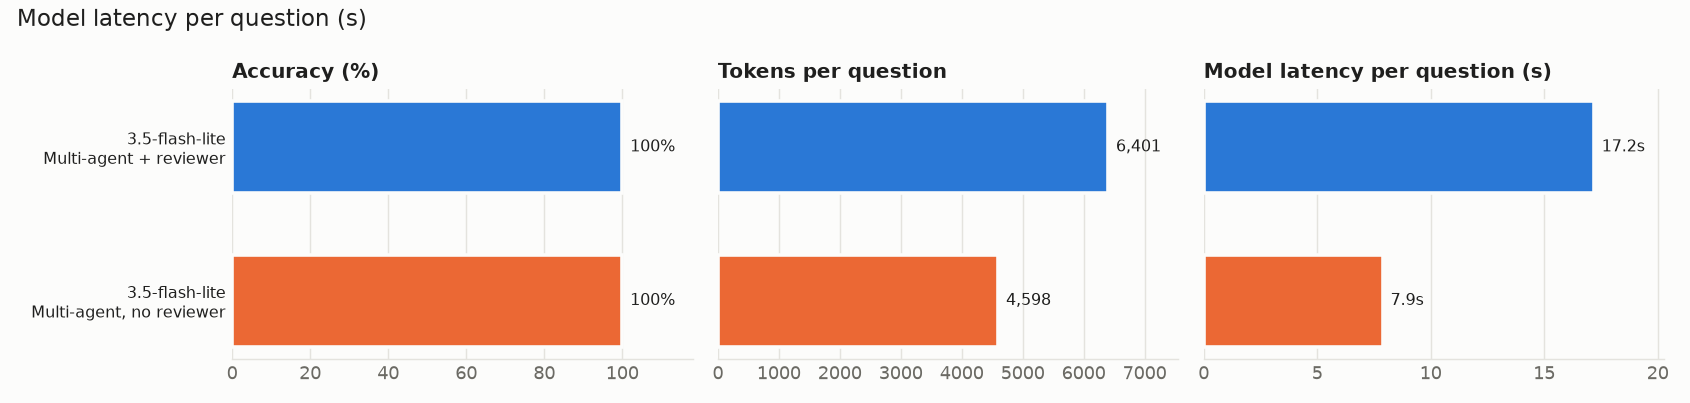
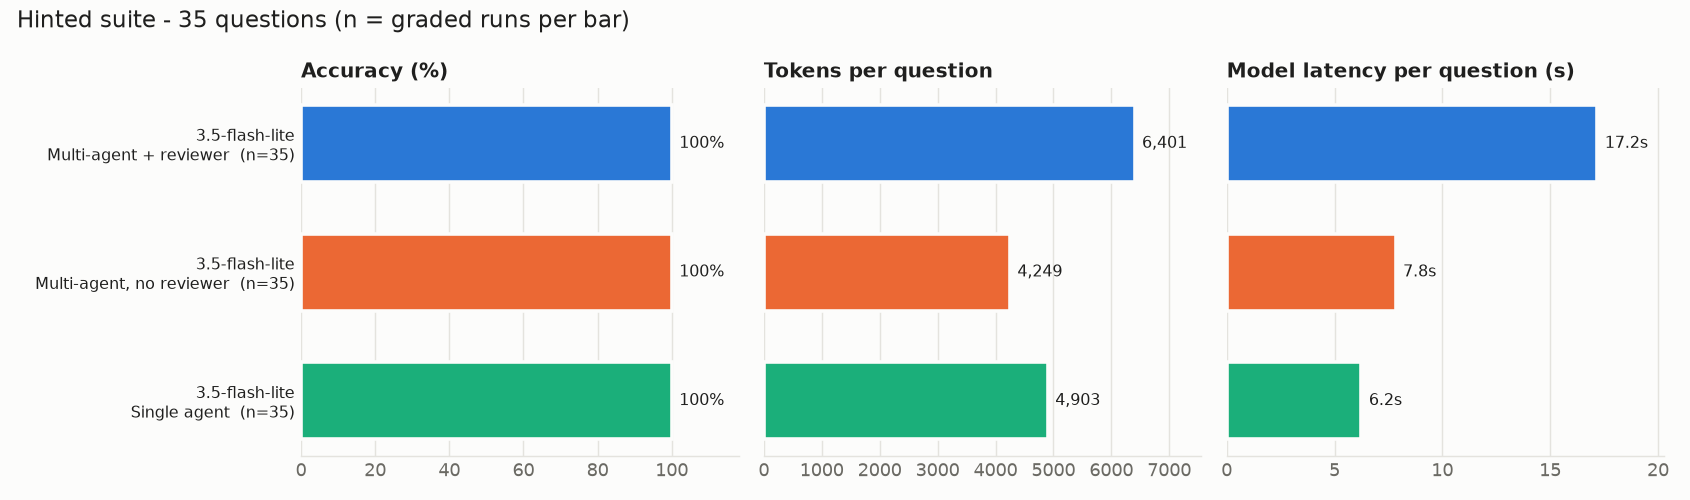
M6/M9: experiment results, quota fail-fast fix, report excludes infra errors, final docs

diff --git a/eval/report.py b/eval/report.py
@@ -52,12 +52,14 @@ def _count_revisions(run_id) -> int:
 
 
 def summarise(df: pd.DataFrame) -> pd.DataFrame:
-    g = df.groupby(["suite", "model", "variant"])
+    # Runs that died on an API/quota error were never graded: they are reported as infra_errors
+    # and excluded from every other column, so they cannot masquerade as wrong answers.
+    graded = df[~df["is_error"]]
+    g = graded.groupby(["suite", "model", "variant"])
     out = pd.DataFrame({
-        "runs": g.size(),
+        "graded": g.size(),
         "accuracy_pct": g["correct"].mean() * 100,
         "completed_pct": g["status"].apply(lambda s: (s == "completed").mean() * 100),
-        "infra_errors": g["is_error"].sum(),
         "avg_executions": g["executions"].mean(),
         "runs_with_self_correction": g["failed_executions"].apply(lambda s: (s > 0).sum()),
         "runs_revised_by_reviewer": g["review_revisions"].apply(lambda s: (s > 0).sum()),
@@ -67,7 +69,15 @@ def summarise(df: pd.DataFrame) -> pd.DataFrame:
         "total_cost_usd": g["cost_usd"].sum(),
         "avg_llm_latency_s": g["llm_latency_s"].mean(),
         "avg_retries": g["retries"].mean(),
-    }).reset_index()
+    })
+    all_configs = df.groupby(["suite", "model", "variant"]).size().index
+    out = out.reindex(all_configs)  # keep configurations whose runs all hit API errors
+    out["graded"] = out["graded"].fillna(0).astype(int)
+    out["infra_errors"] = df[df["is_error"]].groupby(["suite", "model", "variant"]).size()
+    out["infra_errors"] = out["infra_errors"].fillna(0).astype(int)
+    for col in ("runs_with_self_correction", "runs_revised_by_reviewer"):
+        out[col] = out[col].astype("Int64")
+    out = out.reset_index()
     out["variant"] = pd.Categorical(out["variant"], VARIANT_ORDER, ordered=True)
     return out.sort_values(["suite", "model", "variant"]).reset_index(drop=True)
 
@@ -83,23 +93,27 @@ def _style(ax):
 
 
 def chart(summary: pd.DataFrame, path: Path, title: str) -> None:
-    rows = summary.copy()
-    rows["label"] = rows["model"].str.replace("gemini-", "") + "\n" + rows["variant"].map(VARIANT_LABEL).astype(str)
+    rows = summary[summary["graded"] > 0].copy()  # all-error configurations are listed in the table only
+    rows["label"] = (rows["model"].str.replace("gemini-", "") + "\n" + rows["variant"].map(VARIANT_LABEL).astype(str)
+                     + "  (n=" + rows["graded"].astype(str) + ")")
     rows = rows.iloc[::-1]  # first configuration on top
     panels = [("accuracy_pct", "Accuracy (%)", "{:.0f}%"),
               ("avg_tokens", "Tokens per question", "{:,.0f}"),
               ("avg_llm_latency_s", "Model latency per question (s)", "{:.1f}s")]
     fig, axes = plt.subplots(1, 3, figsize=(13, 0.75 * len(rows) + 1.6), sharey=True, facecolor=SURFACE)
-    for ax, (col, title, fmt) in zip(axes, panels):
+    for ax, (col, panel_title, fmt) in zip(axes, panels):
         _style(ax)
         colors = [VARIANT_COLOR[str(v)] for v in rows["variant"]]
         bars = ax.barh(rows["label"], rows[col], color=colors, height=0.6, edgecolor=SURFACE, linewidth=2)
-        vmax = rows[col].max() or 1
+        vmax = rows[col].max()
+        vmax = 1 if pd.isna(vmax) or vmax == 0 else vmax
         for b, v in zip(bars, rows[col]):
-            ax.text(b.get_width() + vmax * 0.02, b.get_y() + b.get_height() / 2, fmt.format(v),
-                    va="center", ha="left", color=INK, fontsize=9)
+            text = "no graded runs" if pd.isna(v) else fmt.format(v)
+            width = 0 if pd.isna(v) else b.get_width()
+            ax.text(width + vmax * 0.02, b.get_y() + b.get_height() / 2, text,
+                    va="center", ha="left", color=INK if not pd.isna(v) else INK_MUTED, fontsize=9)
         ax.set_xlim(0, (100 if col == "accuracy_pct" else vmax) * 1.18)
-        ax.set_title(title, loc="left", color=INK, fontsize=11, fontweight="bold")
+        ax.set_title(panel_title, loc="left", color=INK, fontsize=11, fontweight="bold")
     axes[0].tick_params(axis="y", colors=INK, labelsize=9)
     fig.suptitle(title, x=0.01, ha="left", color=INK, fontsize=13)
     fig.tight_layout()
@@ -123,15 +137,17 @@ def main() -> None:
     df = load()
     summary = summarise(df)
     summary.to_csv(RESULTS / "summary.csv", index=False)
-    cols = ["model", "variant", "runs", "accuracy_pct", "completed_pct", "avg_executions",
+    cols = ["model", "variant", "graded", "infra_errors", "accuracy_pct", "completed_pct", "avg_executions",
             "runs_with_self_correction", "runs_revised_by_reviewer", "avg_llm_calls", "avg_tokens",
             "avg_cost_usd", "avg_llm_latency_s"]
     md = [
         "# Experiment results",
         "",
-        f"{len(df)} graded runs over {df['qid'].nunique()} questions "
+        f"{int((~df['is_error']).sum())} graded runs over {df['qid'].nunique()} questions "
         f"({', '.join(sorted(df['model'].unique()))}). Generated by `python -m eval.report` from `results/runs.jsonl`.",
         "",
+        "- **graded** - runs that finished and were graded; **infra_errors** - runs killed by API errors / the "
+        "daily free-tier quota (not graded, excluded from all other columns)",
         "- **accuracy** - the one-line answer matched the reference answer (deterministic grader, `eval/grader.py`)",
         "- **runs_with_self_correction** - runs where at least one script failed and the agent fixed it",
         "- **runs_revised_by_reviewer** - runs where the reviewer asked for at least one revision",
@@ -142,9 +158,10 @@ def main() -> None:
     ]
     for suite in [s for s in ("hinted", "unhinted") if s in set(summary["suite"])]:
         part = summary[summary["suite"] == suite]
-        sub = df[df["suite"] == suite]
+        sub = df[(df["suite"] == suite) & ~df["is_error"]]
         png = f"comparison_{suite}.png"
-        chart(part, RESULTS / png, f"{suite.capitalize()} suite - {sub['qid'].nunique()} questions")
+        n_q = df[df["suite"] == suite]["qid"].nunique()
+        chart(part, RESULTS / png, f"{suite.capitalize()} suite - {n_q} questions (n = graded runs per bar)")
         by_dataset = (sub.groupby(["model", "variant", "dataset"])["correct"].mean().mul(100).round(0)
                       .unstack("dataset").reset_index())
         failures = sub[~sub["correct"]][["model", "variant", "qid", "status", "answer", "grade_reason"]].copy()

diff --git a/tests/test_llm.py b/tests/test_llm.py
@@ -191,3 +191,16 @@ def test_daily_quota_fails_fast():
     with pytest.raises(QuotaExhausted, match="quota exhausted"):
         llm.chat([{"role": "user", "content": "hi"}])
     assert len(llm.client.requests) == 1  # no pointless retries
+
+
+def test_quota_hint_read_from_error_body():
+    """Real SDK errors: str(err) is just 'Error code: 429'; the hint is only in .body."""
+    req = httpx.Request("POST", "https://x")
+    body = [{"error": {"code": 429, "message": "Requests per day limit exceeded. Please retry in 17h50m44.6s.",
+                       "status": "RESOURCE_EXHAUSTED"}}]
+    err = openai.RateLimitError("Error code: 429", response=httpx.Response(429, request=req), body=body)
+    assert str(err) == "Error code: 429"
+    assert _hinted_wait(err) == pytest.approx(17 * 3600 + 50 * 60 + 44.6)
+    llm = make_llm([err, _resp("never")])
+    with pytest.raises(QuotaExhausted):
+        llm.chat([{"role": "user", "content": "hi"}])

diff --git a/analyst/llm.py b/analyst/llm.py
@@ -84,7 +84,9 @@ def _hinted_wait(err: Exception) -> float | None:
             return float(resp.headers.get("retry-after"))
         except (TypeError, ValueError):
             pass
-    m = _RETRY_IN_RE.search(str(err))
+    # The SDK's str(err) can be just "Error code: 429"; the hint lives in the response body.
+    text = f"{err} {getattr(err, 'body', '') or ''} {getattr(err, 'message', '') or ''}"
+    m = _RETRY_IN_RE.search(text)
     if m and any(m.groups()):
         h, mi, sec = (float(g) if g else 0.0 for g in m.groups())
         return h * 3600 + mi * 60 + sec

diff --git a/results/summary.md b/results/summary.md
@@ -1,7 +1,8 @@
 # Experiment results
 
-51 graded runs over 35 questions (gemini-3.5-flash-lite). Generated by `python -m eval.report` from `results/runs.jsonl`.
+124 graded runs over 35 questions (gemini-3.5-flash-lite). Generated by `python -m eval.report` from `results/runs.jsonl`.
 
+- **graded** - runs that finished and were graded; **infra_errors** - runs killed by API errors / the daily free-tier quota (not graded, excluded from all other columns)
 - **accuracy** - the one-line answer matched the reference answer (deterministic grader, `eval/grader.py`)
 - **runs_with_self_correction** - runs where at least one script failed and the agent fixed it
 - **runs_revised_by_reviewer** - runs where the reviewer asked for at least one revision
@@ -12,10 +13,11 @@
 
 Questions as written: cleaning rules that change the answer are stated in the question.
 
-| model                 | variant     |   runs |   accuracy_pct |   completed_pct |   avg_executions |   runs_with_self_correction |   runs_revised_by_reviewer |   avg_llm_calls |   avg_tokens |   avg_cost_usd |   avg_llm_latency_s |
-|:----------------------|:------------|-------:|---------------:|----------------:|-----------------:|----------------------------:|---------------------------:|----------------:|-------------:|---------------:|--------------------:|
-| gemini-3.5-flash-lite | multi       |     35 |         100.00 |          100.00 |             1.00 |                           0 |                          0 |            4.00 |      6401.37 |           0.00 |               17.19 |
-| gemini-3.5-flash-lite | no_reviewer |     16 |         100.00 |          100.00 |             1.06 |                           1 |                          0 |            3.06 |      4598.06 |           0.00 |                7.89 |
+| model                 | variant     |   graded |   infra_errors |   accuracy_pct |   completed_pct |   avg_executions |   runs_with_self_correction |   runs_revised_by_reviewer |   avg_llm_calls |   avg_tokens |   avg_cost_usd |   avg_llm_latency_s |
+|:----------------------|:------------|---------:|---------------:|---------------:|----------------:|-----------------:|----------------------------:|---------------------------:|----------------:|-------------:|---------------:|--------------------:|
+| gemini-3.5-flash-lite | multi       |       35 |              0 |         100.00 |          100.00 |             1.00 |                           0 |                          0 |            4.00 |      6401.37 |           0.00 |               17.19 |
+| gemini-3.5-flash-lite | no_reviewer |       35 |              0 |         100.00 |          100.00 |             1.03 |                           1 |                          0 |            3.03 |      4249.43 |           0.00 |                7.83 |
+| gemini-3.5-flash-lite | single      |       35 |              0 |         100.00 |          100.00 |             1.06 |                           1 |                          0 |            2.40 |      4903.06 |           0.00 |                6.25 |
 
 ![hinted comparison](comparison_hinted.png)
 
@@ -24,8 +26,37 @@ Accuracy by dataset (%):
 | model                 | variant     |   hr_employees.xlsx |   sales.csv |   support_tickets.csv |   web_traffic.csv |
 |:----------------------|:------------|--------------------:|------------:|----------------------:|------------------:|
 | gemini-3.5-flash-lite | multi       |                 100 |         100 |                   100 |               100 |
-| gemini-3.5-flash-lite | no_reviewer |                 nan |         100 |                   nan |               100 |
+| gemini-3.5-flash-lite | no_reviewer |                 100 |         100 |                   100 |               100 |
+| gemini-3.5-flash-lite | single      |                 100 |         100 |                   100 |               100 |
 
 Incorrect answers:
 
 None.
+
+## Unhinted suite
+
+The same questions with the data-error hints removed (999-unit orders, x10 salary typos, invalid resolution times, casing notes): the agents must find the errors themselves. Only the 16 questions that carry such hints are in this suite.
+
+| model                 | variant     |   graded |   infra_errors |   accuracy_pct |   completed_pct |   avg_executions | runs_with_self_correction   | runs_revised_by_reviewer   |   avg_llm_calls |   avg_tokens |   avg_cost_usd |   avg_llm_latency_s |
+|:----------------------|:------------|---------:|---------------:|---------------:|----------------:|-----------------:|:----------------------------|:---------------------------|----------------:|-------------:|---------------:|--------------------:|
+| gemini-3.5-flash-lite | multi       |       16 |              0 |          87.50 |          100.00 |             1.00 | 0                           | 0                          |            4.00 |      6889.69 |           0.00 |                7.47 |
+| gemini-3.5-flash-lite | no_reviewer |        3 |             13 |          33.33 |          100.00 |             1.00 | 0                           | 0                          |            3.00 |      6048.67 |           0.00 |                8.47 |
+| gemini-3.5-flash-lite | single      |        0 |             11 |         nan    |          nan    |           nan    | <NA>                        | <NA>                       |          nan    |       nan    |         nan    |              nan    |
+
+![unhinted comparison](comparison_unhinted.png)
+
+Accuracy by dataset (%):
+
+| model                 | variant     |   hr_employees.xlsx |   sales.csv |   support_tickets.csv |
+|:----------------------|:------------|--------------------:|------------:|----------------------:|
+| gemini-3.5-flash-lite | multi       |                 100 |          88 |                    75 |
+| gemini-3.5-flash-lite | no_reviewer |                 nan |          33 |                   nan |
+
+Incorrect answers:
+
+| model                 | variant     | qid                   | status    | answer                                                                                                                                       | grade_reason                                       |
+|:----------------------|:------------|:----------------------|:----------|:---------------------------------------------------------------------------------------------------------------------------------------------|:---------------------------------------------------|
+| gemini-3.5-flash-lite | multi       | sales_order_count     | completed | There are 2,968 valid orders in the dataset after removing duplicate rows and processing the data according to the instructions.             | expected ~2962, numbers found [2968.0]             |
+| gemini-3.5-flash-lite | multi       | tickets_slowest_agent | completed | Support agent A07 has the longest median resolution time, with a duration of 38.30 hours.                                                    | expected ~39.95, numbers found [38.3]              |
+| gemini-3.5-flash-lite | no_reviewer | sales_q2q3_drop       | completed | The North region had the largest percentage revenue decline from Q2 to Q3 2024, falling by 76.56% (or 27.24% if excluding extreme unit outli | expected 'West', first label mentioned was 'North' |
+| gemini-3.5-flash-lite | no_reviewer | sales_top_region      | completed | The South region generated the highest total revenue in 2024, reaching a total of $4,375,815.23 (inclusive of all orders).                   | expected 'East', first label mentioned was 'South' |

diff --git a/README.md b/README.md
@@ -85,14 +85,57 @@ Claude Code: `claude mcp add data-analyst -- /path/to/.venv/bin/python -m analys
 
 ## Experiments
 
-<!-- RESULTS -->
+All runs use `gemini-3.5-flash-lite` on the free tier. Full tables are in [results/summary.md](results/summary.md),
+and every raw run is in `results/runs.jsonl`.
+
+**Hinted suite (35 questions, cleaning rules stated in the question): every variant scored 35/35.**
+
+| Variant | Accuracy | LLM calls / question | Tokens / question |
+|---|---|---|---|
+| Multi-agent + reviewer | 100% | 4.0 | 6,401 |
+| Multi-agent, no reviewer | 100% | 3.0 | 4,249 |
+| Single agent | 100% | 2.4 | 4,903 |
+
+![hinted](results/comparison_hinted.png)
+
+**Unhinted suite (the 16 questions whose data-error hints were removed: the agents must notice the
+999-unit orders, ×10 salary typos and invalid resolution times on their own).**
+
+| Variant | Graded runs | Accuracy |
+|---|---|---|
+| Multi-agent + reviewer | 16 / 16 | 88% (14/16) |
+| Multi-agent, no reviewer | 3 / 16 | 33% (1/3) |
+| Single agent | 0 / 16 | – |
+
+![unhinted](results/comparison_unhinted.png)
+
+What the numbers show, and what they don't:
+
+- **When the task is fully specified, the extra agents add cost, not accuracy.** On the hinted suite the
+  single agent was as accurate as the full team with ~40% fewer LLM calls.
+- **Messy data is where the pipeline earns its keep, but this run can't yet say which part matters.** With hints
+  removed, the full pipeline still got 14/16. Both no-reviewer failures (of 3 graded) were the 999-unit outlier
+  trap (*"North fell 76.6%"*). However, the reviewer requested **zero** revisions in these runs, so the difference
+  can't be credited to it. More likely it comes from run-to-run variation in whether the Planner includes outlier
+  removal, on a very small sample.
+- **The unhinted comparison is incomplete.** The free tier allows 500 requests/day for this model, and the quota ran
+  out partway through, so 24 runs were never graded (they are counted as `infra_errors`, not as wrong answers).
+  To finish it after the quota resets:
+  `python -m eval.harness --variants no_reviewer single --suite unhinted && python -m eval.report`.
+- **The second-model comparison is not done.** `gemini-3.5-flash` allows only 20 requests/day, and the other
+  models were overloaded (HTTP 503) or retired (404) at run time. Use `--models` with any model you have quota for.
+- Latency: the multi-agent hinted batch ran first, while the API was slow (~4.3 s/call vs ~2.6 s later), so
+  its latency is partly inflated by API load. Rate-limiter queueing is excluded from all latencies.
+- The two unhinted multi-agent misses were judgement calls: keeping the six 999-unit orders when counting "valid"
+  orders, and not dropping negative or 2000-hour resolution times (right agent, A07, but 38.3 h vs 39.95 h).
+
 
 Reproduce with:
 
 ```bash
 python -m eval.harness --models gemini-3.5-flash-lite --variants multi no_reviewer single
-python -m eval.harness --models gemini-3.1-flash-lite --variants multi single
-python -m eval.report          # -> results/summary.md, summary.csv, comparison.png
+python -m eval.harness --models gemini-3.5-flash-lite --variants multi no_reviewer single --suite unhinted
+python -m eval.report          # -> results/summary.md, summary.csv, comparison_<suite>.png
 ```
 
 The harness can resume: re-running it skips finished combinations and retries runs that hit API errors.
@@ -122,7 +165,7 @@ and [DECISIONS.md](DECISIONS.md).
 ## Tests
 
 ```bash
-python -m pytest          # ~100 tests, offline: agents run against a scripted FakeLLM
+python -m pytest          # 101 tests, offline: agents run against a scripted FakeLLM
 ```
 
 The tests cover the LLM layer (retries, rate limiter, cost), sandbox escape attempts, every graph

diff --git a/PROGRESS.md b/PROGRESS.md
@@ -13,10 +13,10 @@ This file tracks the build so work can be resumed if interrupted.
 | M3 | Safe code sandbox (AST safety check + subprocess + timeout + temp dir + no network) + tests | ✅ done |
 | M4 | LangGraph agents: Planner → Coder → Executor → Reviewer → Reporter, self-correction loop, human-in-the-loop approval, single-agent & no-reviewer variants, markdown report with charts + tests (fake LLM) | ✅ done |
 | M5 | Evaluation: 30+ questions with reference answers, grader, harness + tests | ✅ done |
-| M6 | Run experiments (single vs multi, ± reviewer, 2 LLMs) → `results/` tables + charts | ⏳ |
+| M6 | Run experiments (single vs multi, ± reviewer, 2 LLMs) → `results/` tables + charts | ✅ done (partial: see log) |
 | M7 | FastAPI backend (streaming steps, approval endpoint) + Streamlit UI + tests | ✅ done |
 | M8 | MCP server exposing the analysis tools + tests + docs | ✅ done |
-| M9 | Dockerfile, README, ARCHITECTURE, DECISIONS final pass | ⏳ |
+| M9 | Dockerfile, README, ARCHITECTURE, DECISIONS final pass | ✅ done |
 
 ## Log
 
@@ -50,3 +50,12 @@ This file tracks the build so work can be resumed if interrupted.
   Hinted suite was ~100% for every variant so far -> added the **unhinted** suite (`--suite unhinted`, 16 questions
   with the data-error hints removed) to test whether agents find data errors themselves.
   Resume: `python -m eval.harness --models <m> --variants ... [--suite unhinted]` then `python -m eval.report`.
+- 2026-10-31 — M6 results: hinted suite 105/105 (all 3 variants). Unhinted: multi 14/16, no_reviewer 1/3 graded,
+  single 0 graded - `gemini-3.5-flash-lite` daily free quota (500 req/day) ran out at ~18:20. 24 ungraded runs are
+  `status: error` rows in results/runs.jsonl. **To finish after the quota resets (~17.8 h later):**
+  `python -m eval.harness --variants no_reviewer single --suite unhinted && python -m eval.report`, then update README.
+  Second model not run: gemini-3.5-flash = 20 req/day; 3.1-flash-lite/3.7/3.8/flash-latest returned 503.
+  Found + fixed: quota hint lives only in the SDK error *body* (str(err) is "Error code: 429") -> QuotaExhausted now
+  fails fast (verified against the live API: 0.7 s instead of ~5 min of retries).
+- 2026-10-31 — M9: Dockerfile + docker-compose (not built locally: docker not installed on this machine), README with
+  results, ARCHITECTURE, DECISIONS. 101 tests passing; ruff (F, E9, B) clean.

diff --git a/DECISIONS.md b/DECISIONS.md
@@ -83,3 +83,15 @@ persistent LangGraph checkpointer (SQLite/Postgres) so paused approvals survive 
 A top-level package named `mcp` would shadow the MCP SDK. Dataset access is restricted to
 `data/` and `uploads/` by default; absolute paths need `ANALYST_MCP_ALLOW_ANY_PATH=1`,
 because the MCP client (an LLM) chooses the arguments.
+
+### 13. A second, "unhinted" evaluation suite
+With cleaning rules spelled out in the questions, all three variants scored 35/35, which
+measures pandas fluency, not analyst judgement. The unhinted suite removes exactly the
+error-detection hints (outlier orders, salary typos, invalid durations, casing notes) and
+keeps definitional rules, so the expected answers are unchanged but the agents must find
+the data errors themselves. That is where the variants start to differ.
+
+### 14. Infrastructure errors are not wrong answers
+Runs that die on API errors (503 overload, exhausted daily quota) are recorded with status
+`error`, retried when the harness is re-run, and reported as `infra_errors`, excluded from
+accuracy. Counting them as wrong would blame the agent for the provider's outage.

diff --git a/ARCHITECTURE.md b/ARCHITECTURE.md
@@ -44,7 +44,7 @@
 | `api/main.py` | FastAPI: datasets, runs, events, NDJSON stream, approval, files |
 | `ui/app.py` | Streamlit front-end on top of the API |
 | `analyst_mcp/server.py` | MCP server: `list_datasets`, `profile_dataset`, `run_python`, `ask_analyst` |
-| `eval/` | Reference cleaners, 35 questions, deterministic grader, resumable harness, report |
+| `eval/` | Reference cleaners, 35 questions (+ a 16-question *unhinted* suite without data-error hints), deterministic grader, resumable harness, report |
 
 ## The agents
 
